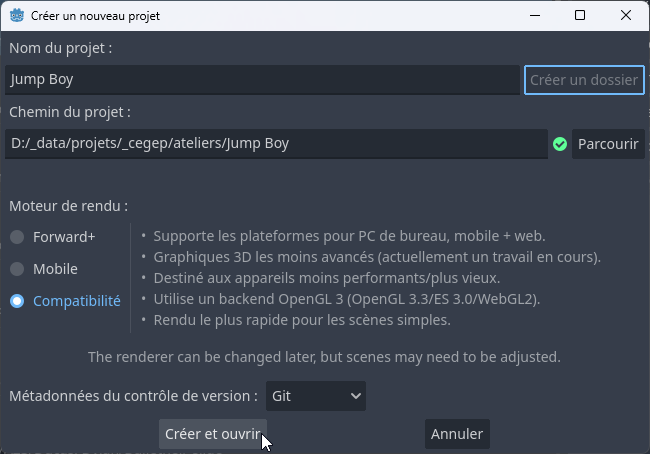
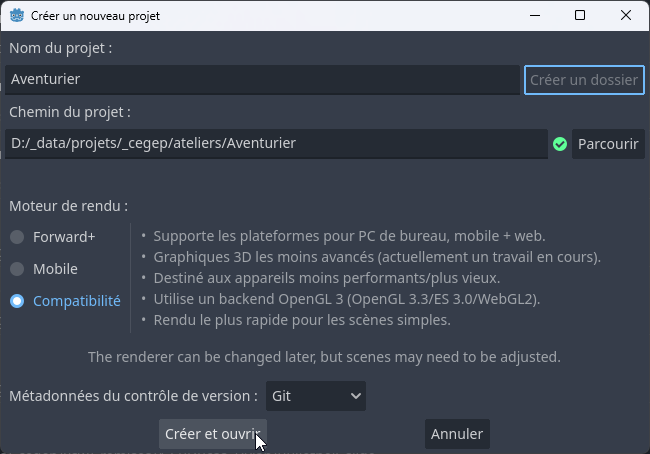
Zone de travail

diff --git a/godot/ppo/03-Premier-projet/readme.md b/godot/ppo/03-Premier-projet/readme.md
@@ -13,6 +13,7 @@
   - [Volet Scène](#volet-scène)
     - [Qu'est-ce qu'une scène?](#quest-ce-quune-scène)
   - [Système de fichiers](#système-de-fichiers)
+  - [Zone de travail](#zone-de-travail)
 
 
 # Créer un nouveau projet
@@ -43,7 +44,7 @@ Avant de créer le projet, nous allons explorer les différentes options qui s'o
 4. **Créer et ouvrer** : C'est le bouton qui te permettra de créer le projet et de l'ouvrir dans Godot.
 
 ## Exercice
-1. Donne le nom "Jump Boy" à ton projet.
+1. Donne le nom "Aventurier" à ton projet.
    - Tu peux aussi choisir un autre nom si tu préfères.
 2. Choisis un emplacement pour ton projet.
 3. Si l'avertissement jaune apparaît, clique sur le bouton "Créer un dossier".
@@ -99,4 +100,7 @@ Les fichiers peuvent être des scènes, des scripts, des images, des sons, des v
 
 ![alt text](assets/sys_fichiers.png)
 
-TODO: Continuer avec la zone de travail, les boutons d'exécution et le volet de débogage.
+## Zone de travail
+La zone de travail est l'endroit où tu pourras voir et modifier les éléments de la scène active. C'est ton terrain de jeu visuel.
+
+Tu y glisseras et déposeras les éléments de ton jeu pour les modifier.

diff --git a/godot/ppo/readme.md b/godot/ppo/readme.md
@@ -42,7 +42,9 @@ Si tu as des questions, n'hésite pas à demander à ton enseignant ou à consul
 ---
 
 # Table des matières <!-- omit in toc -->
-- [Introduction à Godot](01-Introduction-a-Godot/readme.md)
+- [Introduction à Godot](./01-Introduction-a-Godot/readme.md)
+- [Installatin de Godot](./02-Installation/readme.md)
+- [Premier projet](./03-Premier-projet/readme.md)
 
 ---
 
